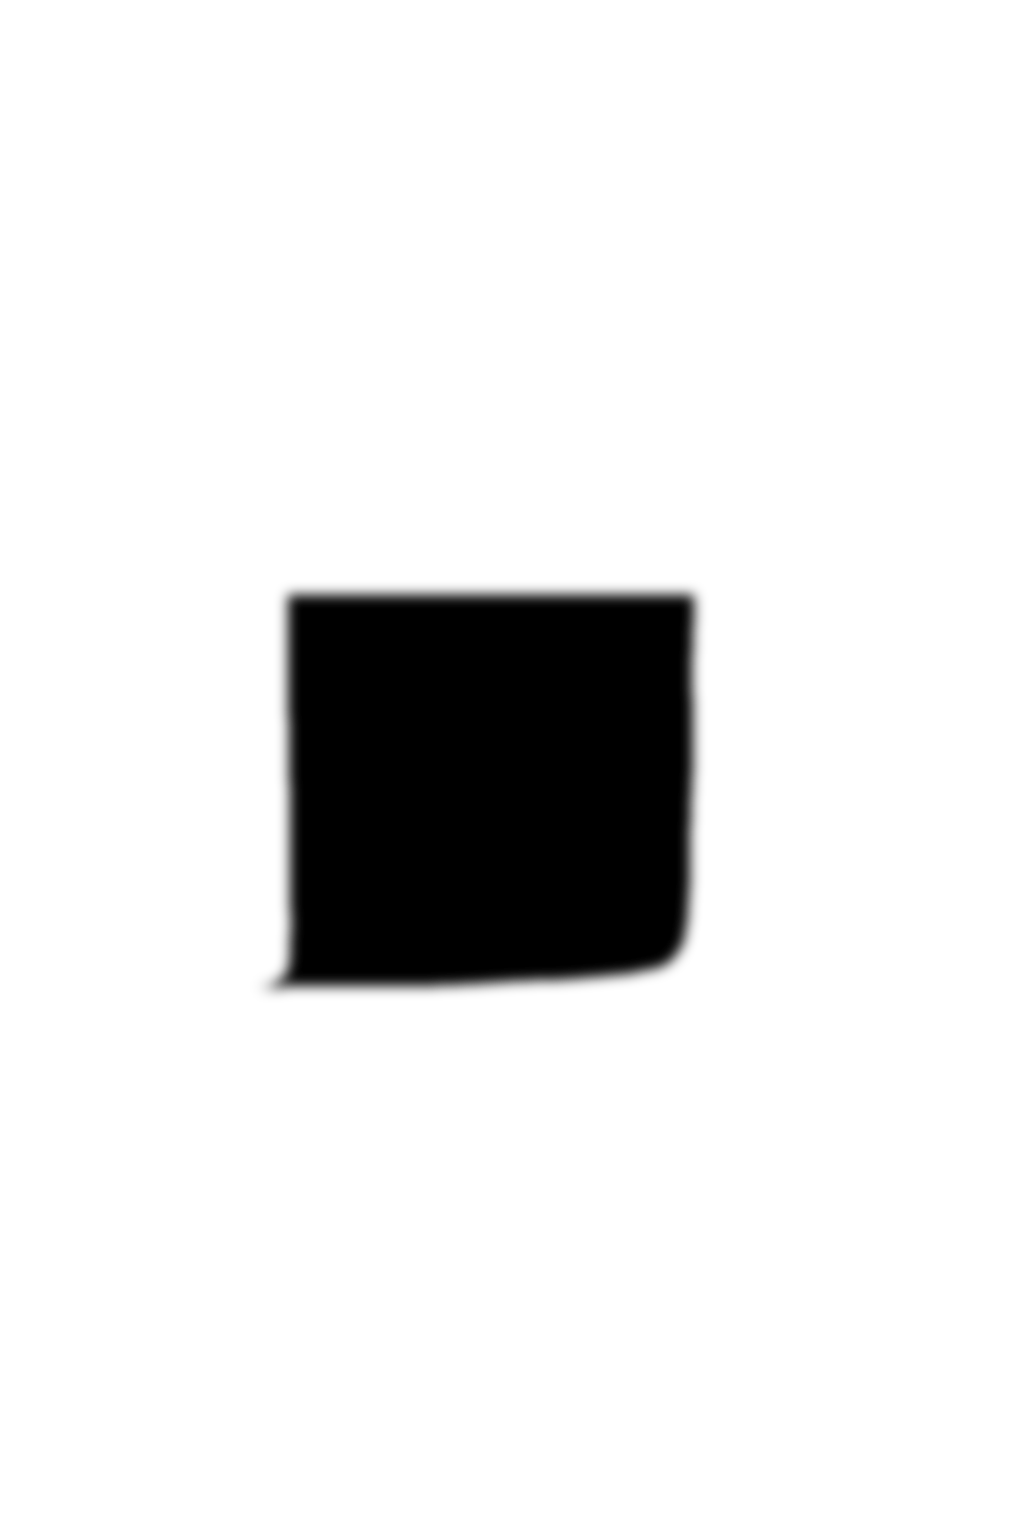
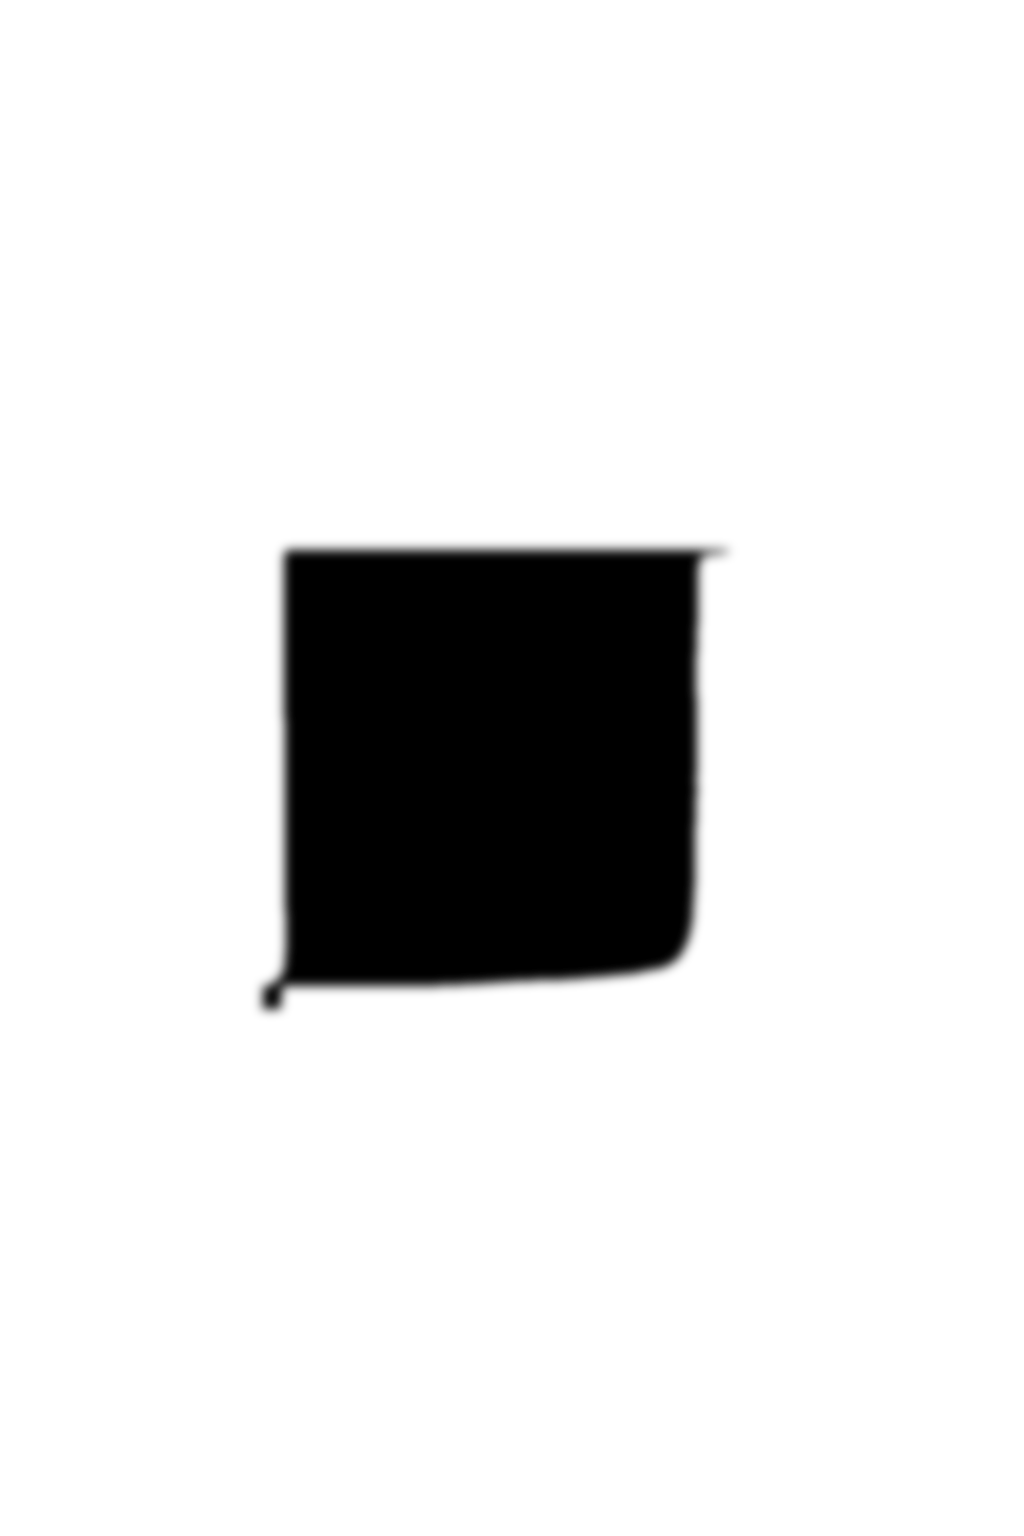
fix: liquid band covers full fill, 'color' blend for true hues

Changed region(s): [[0.25, 0.3438, 0.7188, 0.6875]]

diff --git a/hydrogen/app/components/ProductCard.jsx b/hydrogen/app/components/ProductCard.jsx
@@ -86,8 +86,8 @@ export default function ProductCard({product}) {
                   maskSize: 'contain',
                   maskRepeat: 'no-repeat',
                   maskPosition: 'center',
-                  mixBlendMode: 'multiply',
-                  opacity: 0.42,
+                  mixBlendMode: 'color',
+                  opacity: 0.65,
                 }}
               />
             </div>